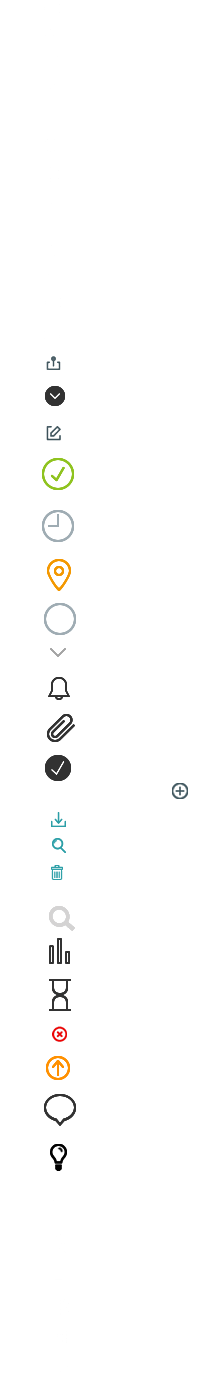
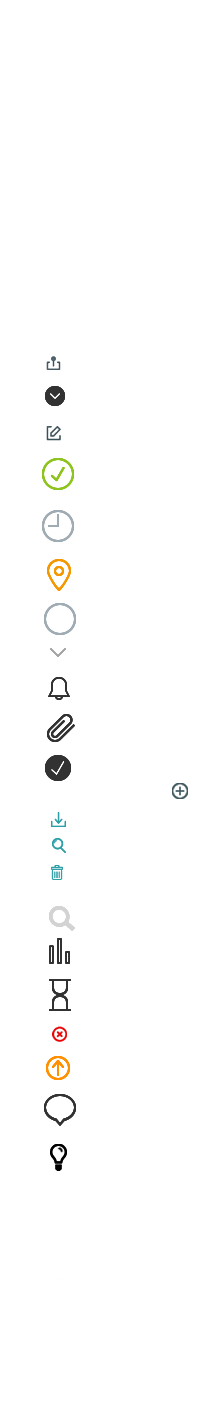
【修改】【作者：马田力】专家初审--审核汇总--图标不正确

Changed region(s): [[0.2069, 0.2486, 0.3842, 0.8699], [0.8276, 0.5282, 0.9458, 0.5903]]

diff --git a/src/main/webapp/public/backend/css/btn.css b/src/main/webapp/public/backend/css/btn.css
@@ -763,6 +763,9 @@
 .cancel{
    background-position: -36px -290px;
 }
+.passed {
+	background-position: -36px -1384px;
+}
 .print{
    background-position:-42px -1262px; 
 }
